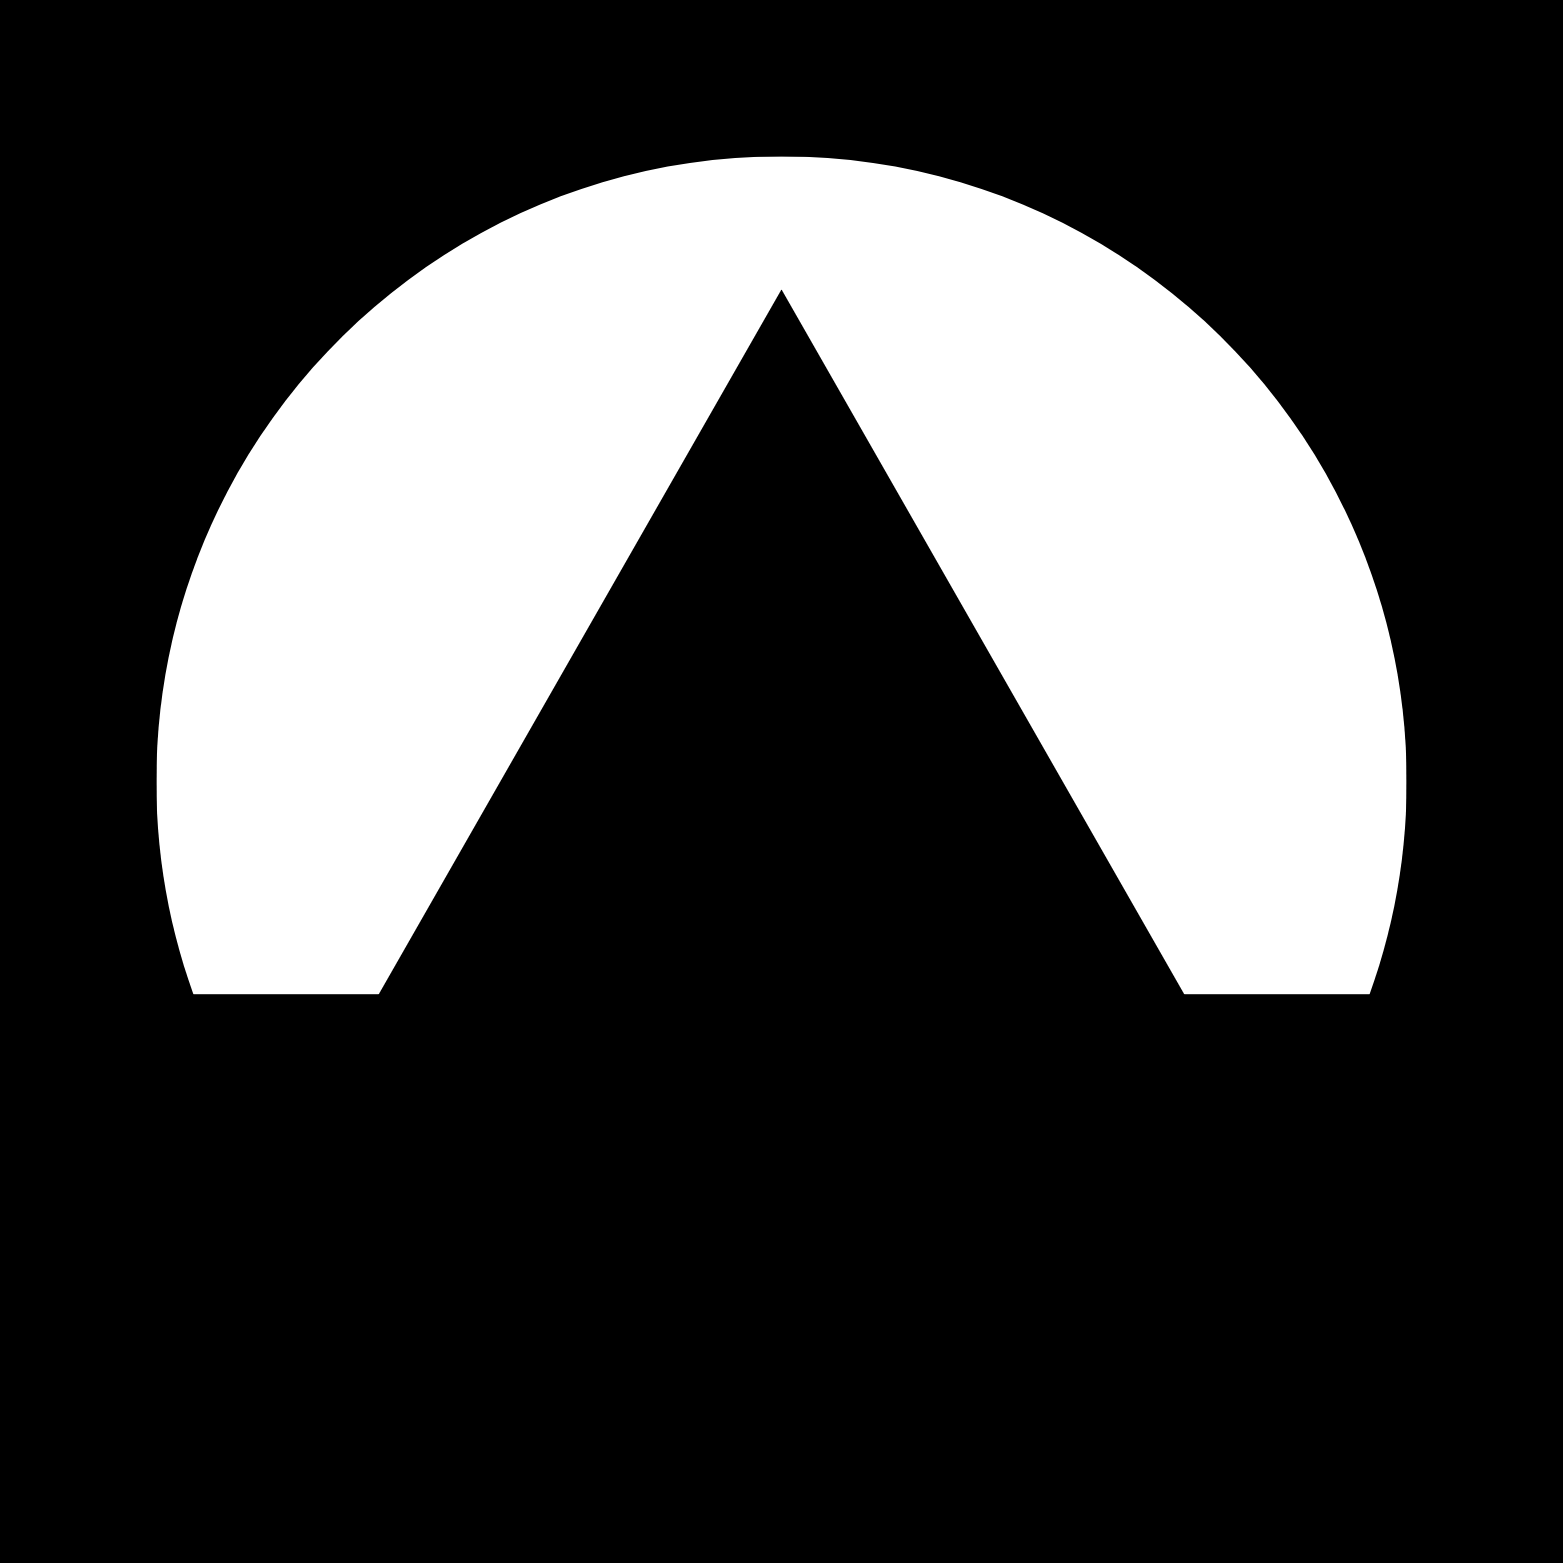
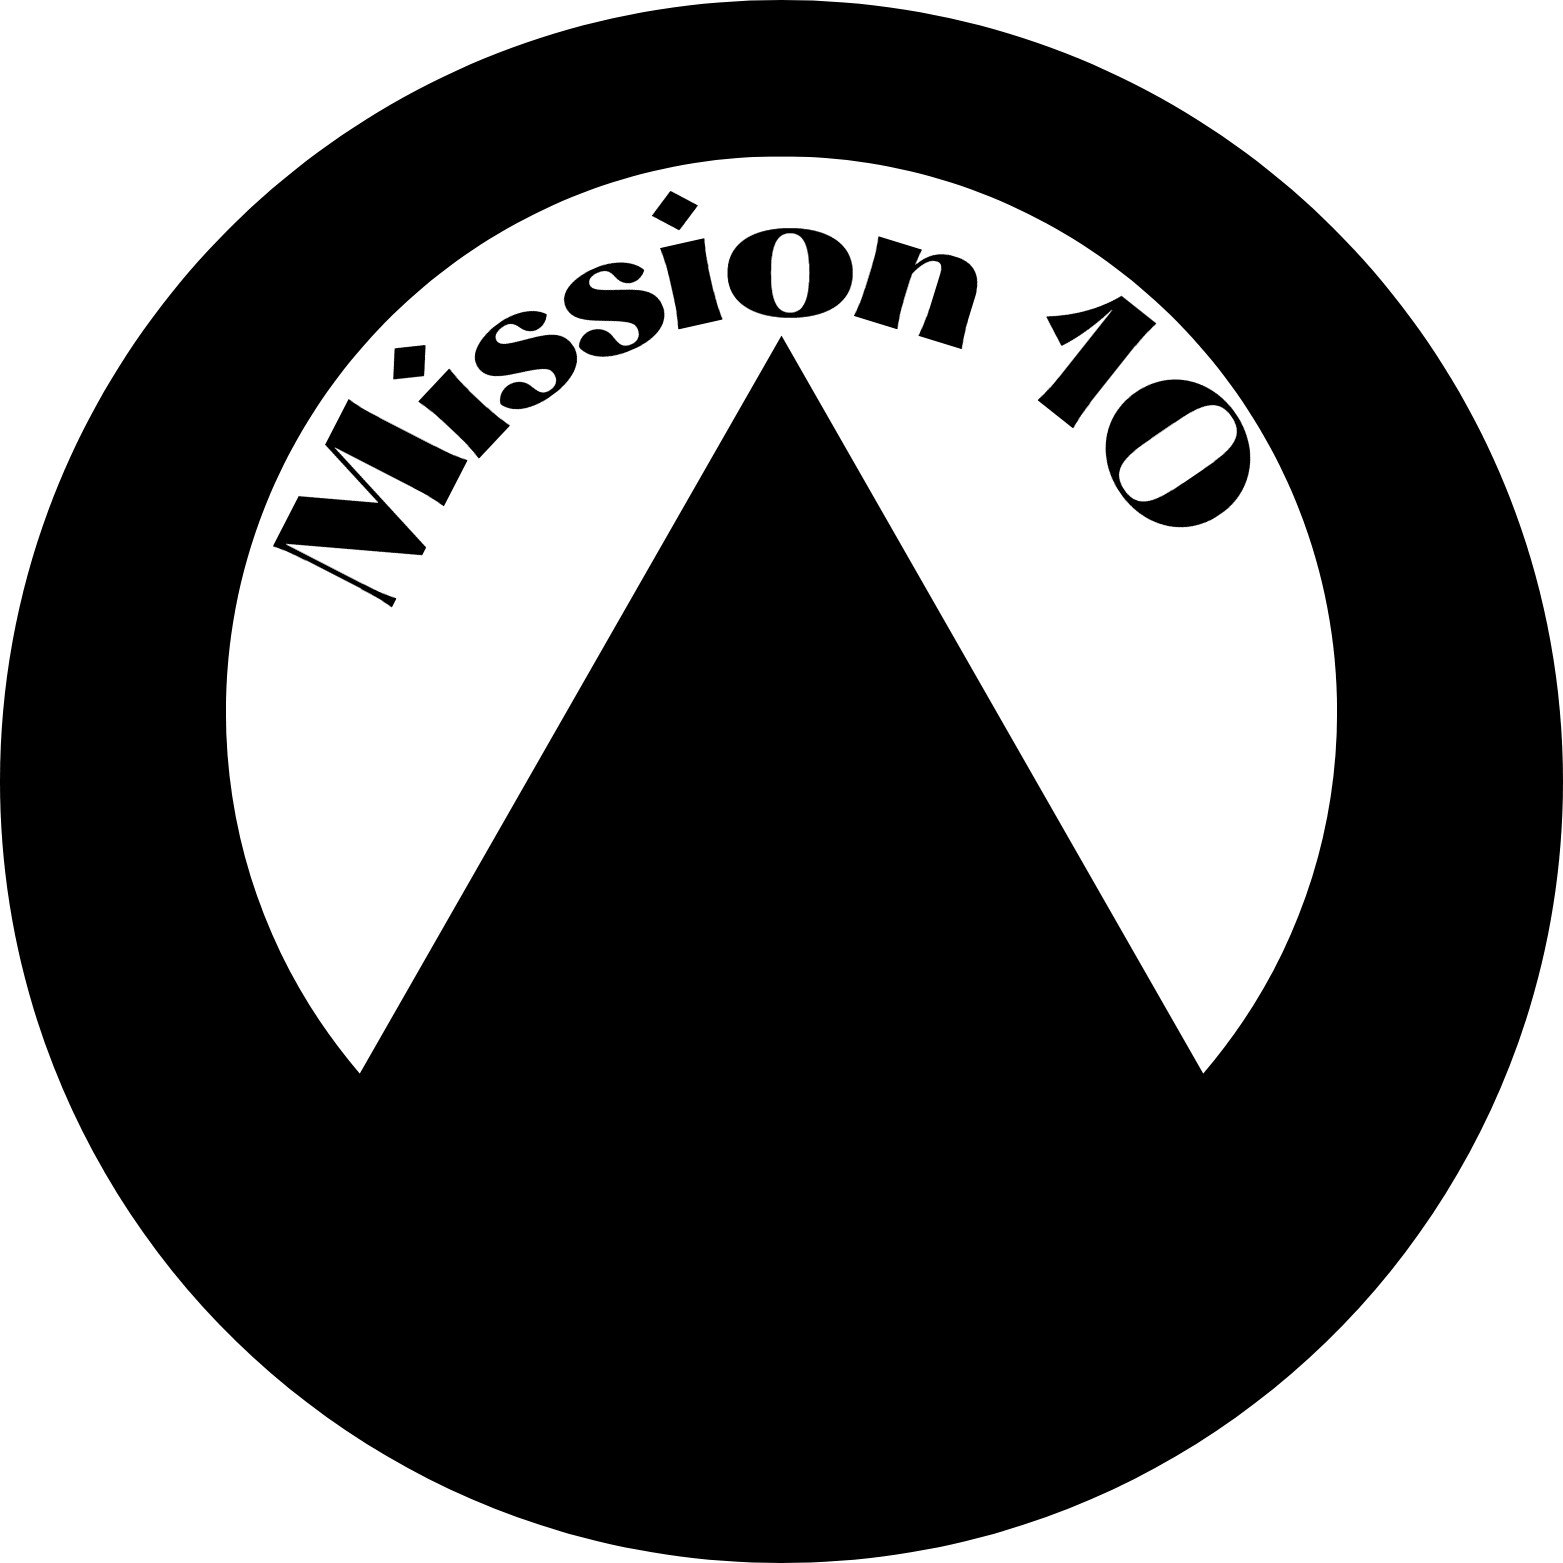
MISSION 10

diff --git a/index.html b/index.html
@@ -5,11 +5,19 @@
     <meta http-equiv="X-UA-Compatible" content="IE=edge">
     <meta name="viewport" content="width=device-width, initial-scale=1.0">
     <link rel="icon" href="/IMPS.png">
-    <link rel="stylesheet" href="/style.css">
-    <title>IMPY FAYMPYA</title>
+    <link rel="stylesheet" href="/css/style.css">
+    <title> MISSION 10</title>
 </head>
 <body>
-    <h1 style="text-align: center;">Important Unit Test</h1>
+<!-- Navbar starts -->
+<div class="navbar">
+    <div class="logo">
+        <a href="/index.html">
+            <img src="/IMPS.png" alt="MISSION 10">
+        </a>
+    </div>
+</div>
+<!-- Navbar ends -->
     <hr>
    <div class="clicks">
     <button>
@@ -19,13 +27,13 @@
         <a href="/OOP/OOP.html">OOP</a>
        </button>
        <button>
-        <a href="/ADE/">ADE</a>
+        <a href="/ADE/ADE.html">ADE</a>
        </button>
        <button>
         <a href="/M3/M3.html">M3</a>
        </button>
        <button>
-        <a href="/DS/">DS</a>
+        <a href="/DS/DS.html">DS</a>
        </button>
    </div>
 </body>

diff --git a/OOP/OOP.html b/OOP/OOP.html
@@ -5,7 +5,7 @@
     <meta http-equiv="X-UA-Compatible" content="IE=edge">
     <meta name="viewport" content="width=device-width, initial-scale=1.0">
     <link rel="icon" href="/IMPS.png">
-    <link rel="stylesheet" href="/style.css">
+    <link rel="stylesheet" href="/css/style.css">
     <title>IMPY FAYMPYA</title>
 </head>
 <body>
@@ -15,8 +15,10 @@
         <a href="/index.html">Back</a>
     </button>
     <div class="containar">
-        <embed src="/OOP/(OOP) IMPYA FHYampya .pdf#toolbar=0" type="application/pdf" />
-        <h3>OOP Unit Test 2 IMP</h3>
+        <div class="">
+             <embed src="/OOP/(OOP) IMPYA FHYampya .pdf#toolbar=0" type="application/pdf" />
+             <h3>OOP Unit Test 2 IMP</h3>
+        </div>
     </div>
 </body>
 </html>

diff --git a/M3/M3.html b/M3/M3.html
@@ -5,7 +5,7 @@
     <meta http-equiv="X-UA-Compatible" content="IE=edge">
     <meta name="viewport" content="width=device-width, initial-scale=1.0">
     <link rel="icon" href="/IMPS.png">
-    <link rel="stylesheet" href="/style.css">
+    <link rel="stylesheet" href="/css/style.css">
     <title>IMPY FAYMPYA</title>
 </head>
 <body>
@@ -15,8 +15,10 @@
         <a href="/index.html">Back</a>
     </button>
     <div class="containar">
-        <embed src="/M3/IMPYA FHYampya (Math_s).pdf#toolbar=0" type="application/pdf" />
+        <div class="">
+            <embed src="/M3/IMPYA FHYampya (Math_s).pdf#toolbar=0" type="application/pdf" />
         <h3>M3 Unit Test 2 IMP</h3>
+        </div>
     </div>
 </body>
 </html>

diff --git a/css/style.css b/css/style.css
@@ -1,28 +1,3 @@
-@media (min-width: 420px){
-    .pdf embed{
-        width: 100%;
-        height: 30rem;
-    }
-}
-@media (min-width: 390px){
-    .pdf embed{
-        width: 100%;
-        height: 26.5rem;
-    }
-}
-@media (min-width: 300px){
-    .pdf embed{
-        width: 100%;
-        height: 18rem;
-    }
-}
-.pdf{
-    text-align: center;
-}
-.pdf embed{
-    width: 50%;
-    height: 53rem;
-}
 button{
     margin: 1rem;
 }
@@ -104,4 +79,11 @@ a{
 .clicks button a{
     font-size: large;
 }
+}
+.navbar {
+    display: flex;
+    justify-content: space-around;
+}
+.navbar .logo img {
+    width: 4rem;
 }

diff --git a/ADE/ADE.html b/ADE/ADE.html
@@ -12,10 +12,13 @@
     <h1 style="text-align: center;">Important Unit Test</h1>
     <hr>
     <button>
-        <a href="/DSGT/DSGT.html">Back</a>
+        <a href="/index.html">Back</a>
     </button>
-    <div class="pdf">
-        <embed src="/DSGT/(DSGT) IMPya FHYampya .pdf#toolbar=0" type="application/pdf" />
+    <div class="containar">
+        <div class="">
+             <embed src="/OOP/(OOP) IMPYA FHYampya .pdf#toolbar=0" type="application/pdf" />
+             <h3>ADE Unit Test 2 IMP</h3>
+        </div>
     </div>
 </body>
 </html>

diff --git a/DS/DS.html b/DS/DS.html
@@ -12,10 +12,13 @@
     <h1 style="text-align: center;">Important Unit Test</h1>
     <hr>
     <button>
-        <a href="/DSGT/DSGT.html">Back</a>
+        <a href="/index.html">Back</a>
     </button>
-    <div class="pdf">
-        <embed src="/DSGT/(DSGT) IMPya FHYampya .pdf#toolbar=0" type="application/pdf" />
+    <div class="containar">
+        <div class="">
+             <embed src="/OOP/(OOP) IMPYA FHYampya .pdf#toolbar=0" type="application/pdf" />
+             <h3>DS Unit Test 2 IMP</h3>
+        </div>
     </div>
 </body>
 </html>

diff --git a/DSGT/DSGT.html b/DSGT/DSGT.html
@@ -5,7 +5,7 @@
     <meta http-equiv="X-UA-Compatible" content="IE=edge">
     <meta name="viewport" content="width=device-width, initial-scale=1.0">
     <link rel="icon" href="/IMPS.png">
-    <link rel="stylesheet" href="/style.css">
+    <link rel="stylesheet" href="/css/style.css">
     <title>IMPY FAYMPYA</title>
 </head>
 <body>
